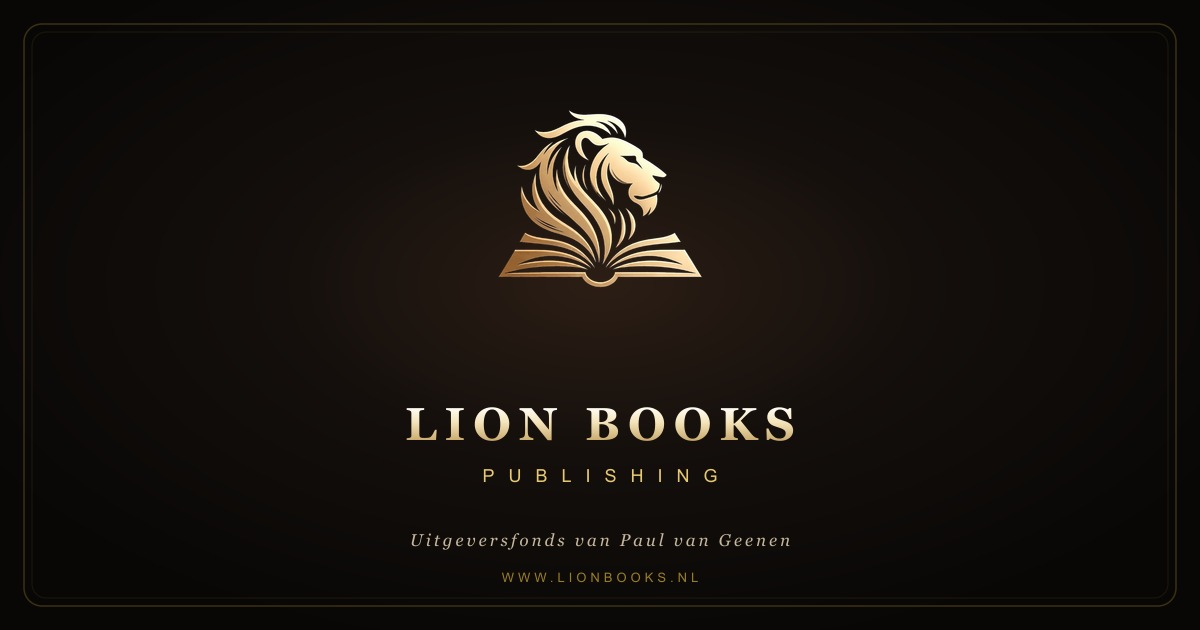
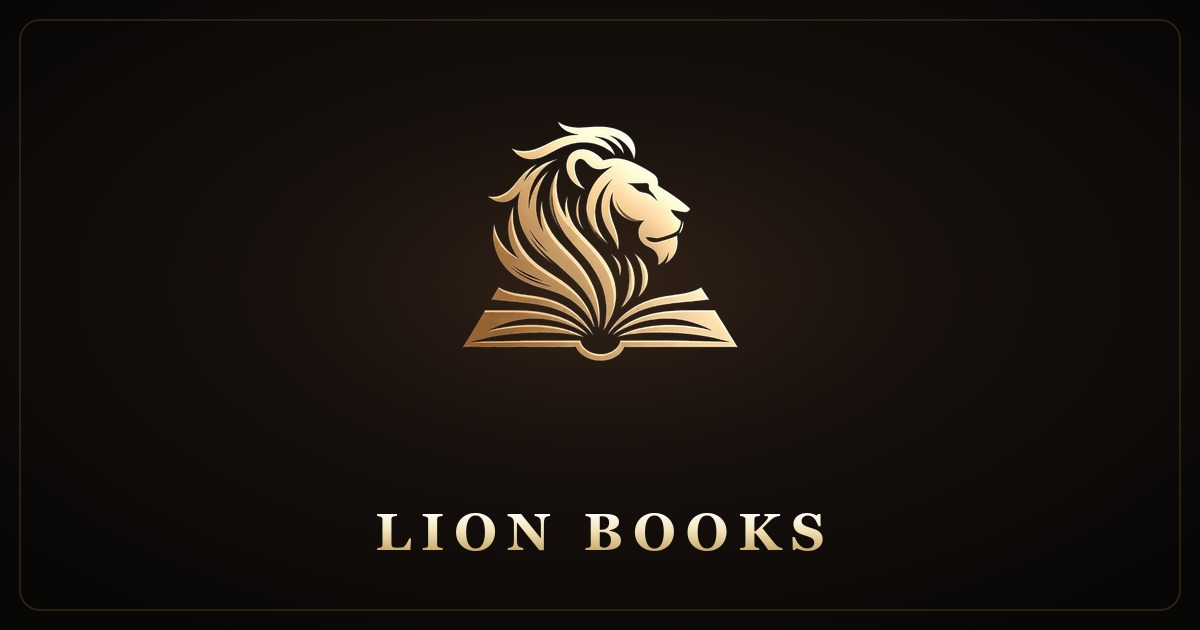
Maximize lion emblem size and remove micro-text in OG image

diff --git a/index.html b/index.html
@@ -22,8 +22,8 @@
     <meta property="og:title" content="Lion Books Publishing | Fonds van Paul van Geenen" />
     <meta property="og:description" content="Officiele imprint voor De Geboorte van de Leeuw, De Echo en Koester het Leven. Ontdek de vierdelige boekenreeks met unieke soundtrack en beleving." />
     <meta property="og:url" content="https://lionbooks.nl/" />
-    <meta property="og:image" content="https://lionbooks.nl/images/lion-books-og.jpg" />
-    <meta property="og:image:secure_url" content="https://lionbooks.nl/images/lion-books-og.jpg" />
+    <meta property="og:image" content="https://lionbooks.nl/images/lion-books-og.jpg?v=2" />
+    <meta property="og:image:secure_url" content="https://lionbooks.nl/images/lion-books-og.jpg?v=2" />
     <meta property="og:image:type" content="image/jpeg" />
     <meta property="og:image:width" content="1200" />
     <meta property="og:image:height" content="630" />
@@ -34,7 +34,7 @@
     <meta name="twitter:url" content="https://lionbooks.nl/" />
     <meta name="twitter:title" content="Lion Books Publishing | Fonds van Paul van Geenen" />
     <meta name="twitter:description" content="Officiele imprint voor De Geboorte van de Leeuw, De Echo en Koester het Leven." />
-    <meta name="twitter:image" content="https://lionbooks.nl/images/lion-books-og.jpg" />
+    <meta name="twitter:image" content="https://lionbooks.nl/images/lion-books-og.jpg?v=2" />
 
     <link rel="icon" type="image/png" href="/images/lion-books-emblem.png" />
     <link rel="shortcut icon" href="/images/lion-books-emblem.png" />
